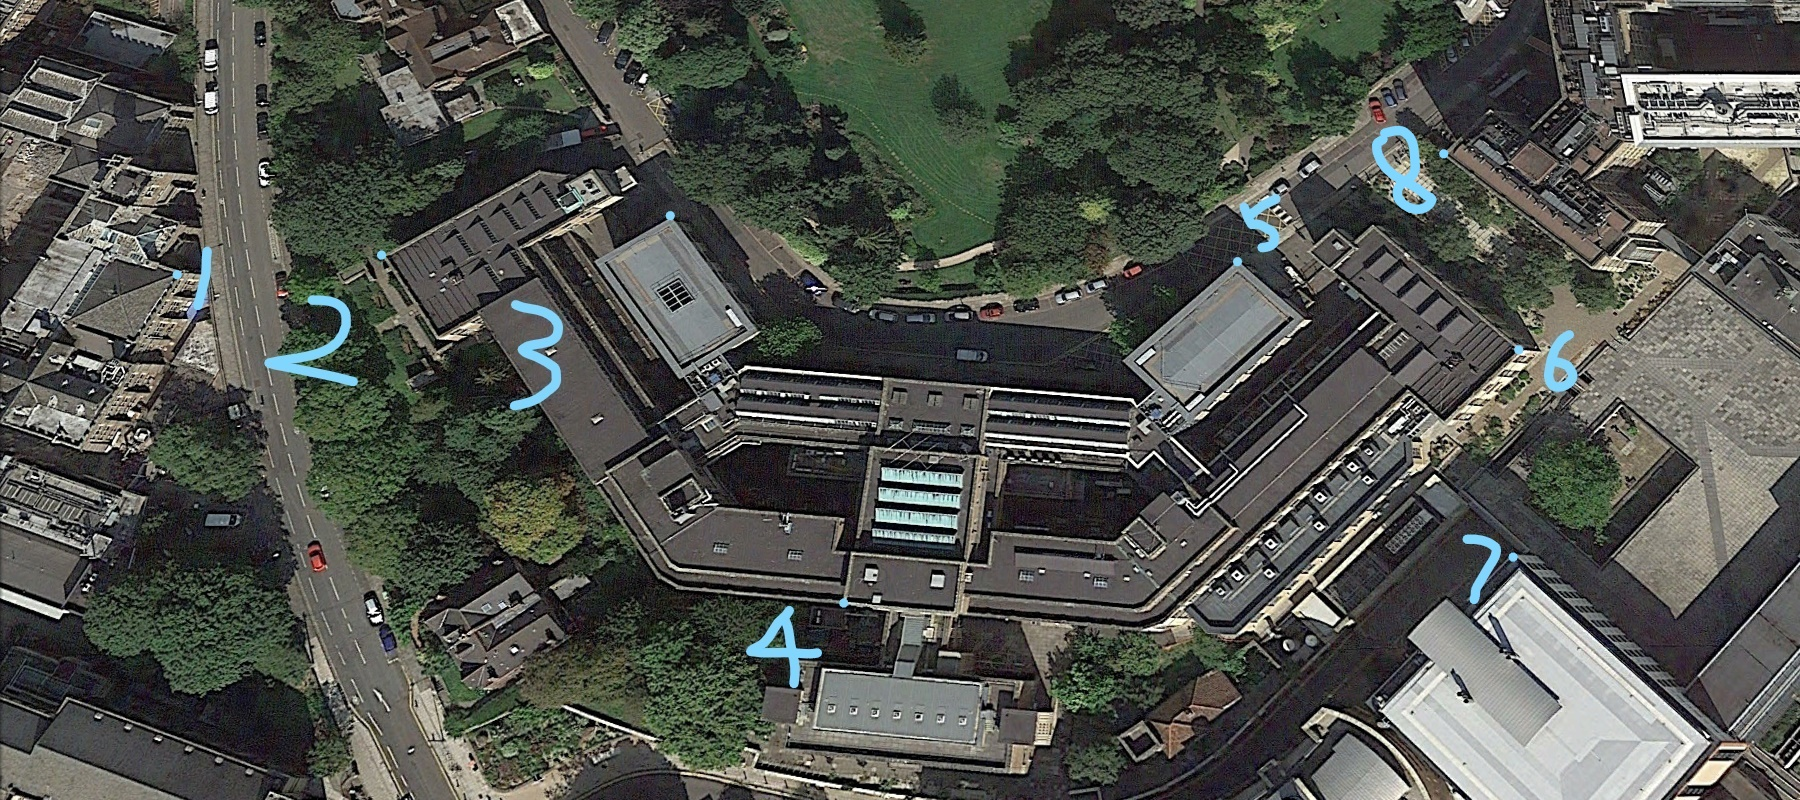
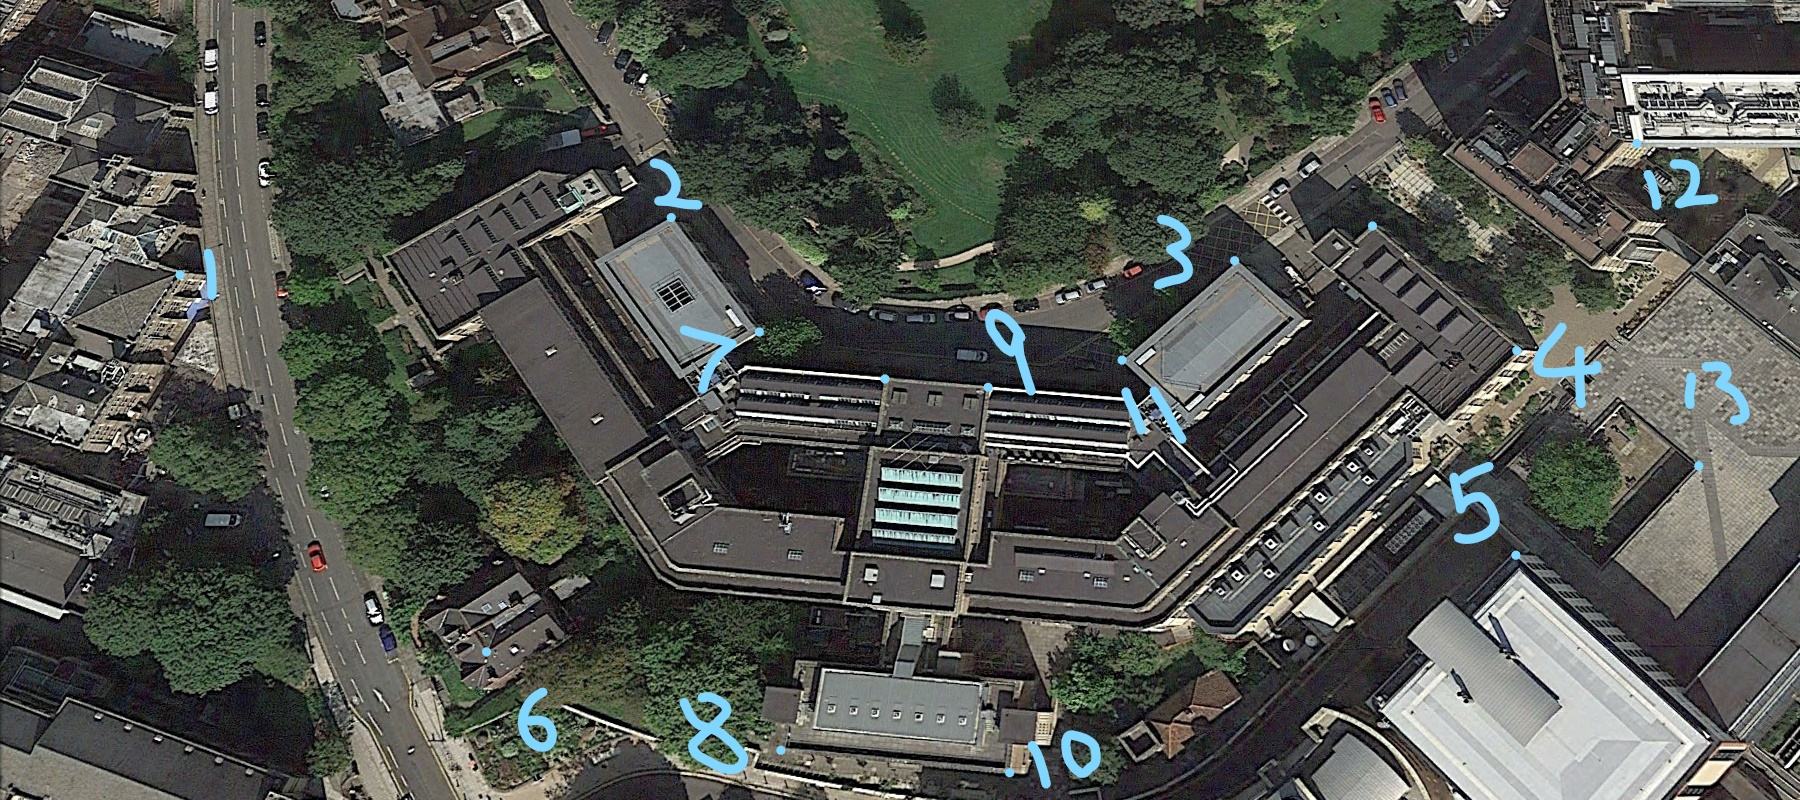
Updates

diff --git a/pwa.m b/pwa.m
@@ -4,7 +4,7 @@ dir = 'Img/';
 folder = 'queens/';
 imFormat = '.png';
 imRefName = 1;
-imTarName = 2;
+imTarName = 5;
 
 
 
@@ -13,7 +13,7 @@ tarI = strcat(dir,folder,num2str(imTarName),imFormat);
 
 I1=im2double(imread(refI));
 I2=im2double(imread(tarI));
-numOfStrongesrt = 300;
+numOfStrongesrt = 100;
 pieceHeight = 2;
 pieceWidth = 5;
 piece = pieceHeight*pieceWidth;
@@ -30,8 +30,8 @@ imtar = [];
 %queens
 switch(folder)
     case 'queens/'
-        format = '%d %d %d %d %d %d %d %d';
-        allGT = loadGT(dir,folder,8,format);
+        format = '%d %d %d %d %d %d %d %d %d %d %d %d %d %d %d';
+        allGT = loadGT(dir,folder,15,format);
 
 
 %House
@@ -102,7 +102,6 @@ rmsem2 = (piece);
 
 %% detect, extract, calcuate affine and warp
 parfor i = 1:piece
-    i
     [Pos1{i},Pos2{i}] = extractFeature(im1{i},im2{i},numOfStrongesrt);
     
     %     showImg(im1{i},im2{i},Pos1{i},Pos2{i});
@@ -131,7 +130,7 @@ parfor i = 1:piece
 %     [ allDis{i},diffm(i),rmsem(i) ] = evaResult(im1{i},I2_warped{i},numOfStrongesrt);
 %     [~, diffm2(i),rmsem2(i) ] = evaResult(im1{i},I2_warped2{i},numOfStrongesrt);
     
-    
+    i
 end
 
 %% combine the images
@@ -163,13 +162,13 @@ end
 %% evaluation
 
 for i = 1:length(whiteImage)
-    whiteImage{i} = affine_warp(whiteImage{i},M{indexOfPatch(i)});
+    whiteImage{i} = Copy_of_affine_warp(whiteImage{i},M{indexOfPatch(i)});
     estimatedTar(i,:) = calPos(whiteImage{i});  
-    estimatedTar2(i,:) = Mtest{indexOfPatch(i)}*tarGT(i,:)';
+    estimatedTar2(i,:) = Mtest{indexOfPatch(i)}*newTarGT(i,:)';
 
 end
-[diffGTOri,allDisOri] = evaluation(refGT,estimatedTar2);
-rmseGTOri = sqrt(immse(refGT,estimatedTar2));
+[diffGTAffine,allDisAffine] = evaluation(newRefGT,estimatedTar2);
+rmseGTAffine = sqrt(immse(newRefGT,estimatedTar2));
 newRefGT(:,3) = [];
 [ diffGT, allDis ] = evaluation( newRefGT,estimatedTar );
 

diff --git a/findSeg.m b/findSeg.m
@@ -1,0 +1,61 @@
+function [ I4 ] = findSeg( I )
+hy = fspecial('sobel');
+hx = hy';
+Iy = imfilter(double(I), hy, 'replicate');
+Ix = imfilter(double(I), hx, 'replicate');
+gradmag = sqrt(Ix.^2 + Iy.^2);
+figure
+imshow(gradmag,[]), title('Gradient magnitude (gradmag)')
+L = watershed(gradmag);
+Lrgb = label2rgb(L);
+figure, imshow(Lrgb), title('Watershed transform of gradient magnitude (Lrgb)')
+se = strel('disk', 20);
+Io = imopen(I, se);
+figure
+imshow(Io), title('Opening (Io)')
+Ie = imerode(I, se);
+Iobr = imreconstruct(Ie, I);
+figure
+imshow(Iobr), title('Opening-by-reconstruction (Iobr)')
+Ioc = imclose(Io, se);
+figure
+imshow(Ioc), title('Opening-closing (Ioc)')
+Iobrd = imdilate(Iobr, se);
+Iobrcbr = imreconstruct(imcomplement(Iobrd), imcomplement(Iobr));
+Iobrcbr = imcomplement(Iobrcbr);
+figure
+imshow(Iobrcbr), title('Opening-closing by reconstruction (Iobrcbr)')
+fgm = imregionalmax(Iobrcbr);
+figure
+imshow(fgm), title('Regional maxima of opening-closing by reconstruction (fgm)')
+I2 = I;
+I2(fgm) = 255;
+figure
+imshow(I2), title('Regional maxima superimposed on original image (I2)')
+se2 = strel(ones(5,5));
+fgm2 = imclose(fgm, se2);
+fgm3 = imerode(fgm2, se2);
+fgm4 = bwareaopen(fgm3, 20);
+I3 = I;
+I3(fgm4) = 255;
+figure
+imshow(I3)
+title('Modified regional maxima superimposed on original image (fgm4)')
+bw = imbinarize(Iobrcbr);
+figure
+imshow(bw), title('Thresholded opening-closing by reconstruction (bw)')
+D = bwdist(bw);
+DL = watershed(D);
+bgm = DL == 0;
+figure
+imshow(bgm), title('Watershed ridge lines (bgm)')
+gradmag2 = imimposemin(gradmag, bgm | fgm4);
+L = watershed(gradmag2);
+I4 = I;
+I4(imdilate(L == 0, ones(3, 3)) | bgm | fgm4) = 255;
+figure
+imshow(I4)
+title('Markers and object boundaries superimposed on original image (I4)')
+
+end
+

diff --git a/segmentation.m b/segmentation.m
@@ -1,0 +1,52 @@
+clc;clear; close all;
+
+dir = 'Img/';
+folder = 'queens/';
+imFormat = '.png';
+imRefName = 1;
+imTarName = 5;
+
+
+
+refI = strcat(dir,folder,num2str(imRefName),imFormat);
+tarI = strcat(dir,folder,num2str(imTarName),imFormat);
+
+I1=rgb2gray(imread(refI));
+I2=rgb2gray(imread(tarI));
+pieceHeight = 2;
+pieceWidth = 3;
+piece = pieceHeight*pieceWidth;
+imsize = size(I1);
+im1 = {};
+im2 = {};
+imSize = size(I1);
+sizeHeight = floor(imSize(1)/pieceHeight);
+sizeWidth = floor(imSize(2)/pieceWidth);
+imref = [];
+imtar = [];
+%% split the image
+parfor index = 1:piece
+    xPos = floor((index-1)/pieceWidth)*sizeHeight;
+    yPos = mod((index-1),pieceWidth)*sizeWidth;
+    for i = xPos+1:xPos+sizeHeight
+        for j = yPos+1:yPos+sizeWidth
+            tempX = mod(i,sizeHeight);
+            if tempX == 0
+                tempX = sizeHeight;
+            end
+             tempY = mod(j,sizeWidth);
+            if tempY == 0
+                tempY = sizeWidth;
+            end
+            imref(tempX,tempY,:) = I1(i,j,:);
+            imtar(tempX,tempY,:) = I2(i,j,:);
+        end
+    end
+    im1{index} =imref;
+    im2{index} = imtar;
+    imref = [];
+    imtar = [];
+end
+
+I3 = findSeg(im1{2});
+I4 = findSeg(im2{2});

diff --git a/rejectMismatch.m b/rejectMismatch.m
@@ -1,7 +1,7 @@
 function [ results ] = rejectMismatch( Pos1,Pos2 )
 %% set RANSAC parameter
 % number of points
-N = 300;
+N = 400;
 % inilers percentage
 p = 0.25;
 % noise
@@ -13,8 +13,8 @@ options.sigma = sigma;
 options.validateMSS_fun = @validateMSS_homography;
 options.est_fun = @estimate_homography;
 options.man_fun = @error_homography;
-options.mode = 'MSAC';
-% options.mode = 'RANSAC';
+% options.mode = 'MSAC';
+options.mode = 'RANSAC';
 
 options.Ps = [];
 options.notify_iters = [];

diff --git a/Copy_of_affine_warp.m b/Copy_of_affine_warp.m
@@ -1,6 +1,6 @@
 function Iout=affine_warp(Iin,M)
 % Affine transformation function (Rotation, Translation, Resize)
-% Iin = rgb2gray(Iin);
+Iin = rgb2gray(Iin);
 % Make all x,y indices
 [x,y]=ndgrid(0:size(Iin,1)-1,0:size(Iin,2)-1);
 

diff --git a/demo.m b/demo.m
@@ -14,7 +14,7 @@ im2 = strcat(dir,folder,'2',imFormat);
 
 I1=im2double(imread(im1));
 I2=im2double(imread(im2));
-numOfStrongesrt = 150;
+numOfStrongesrt = 300;
 
 
 
